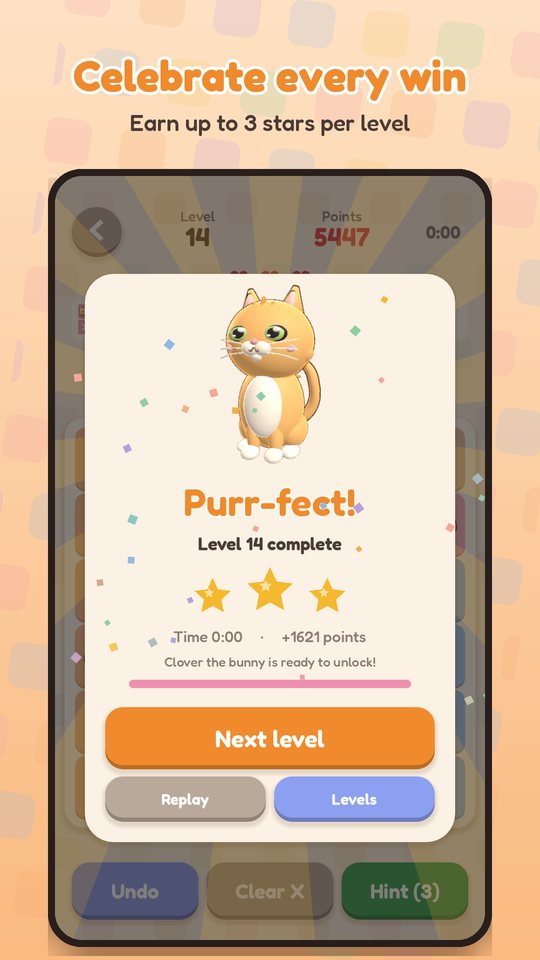
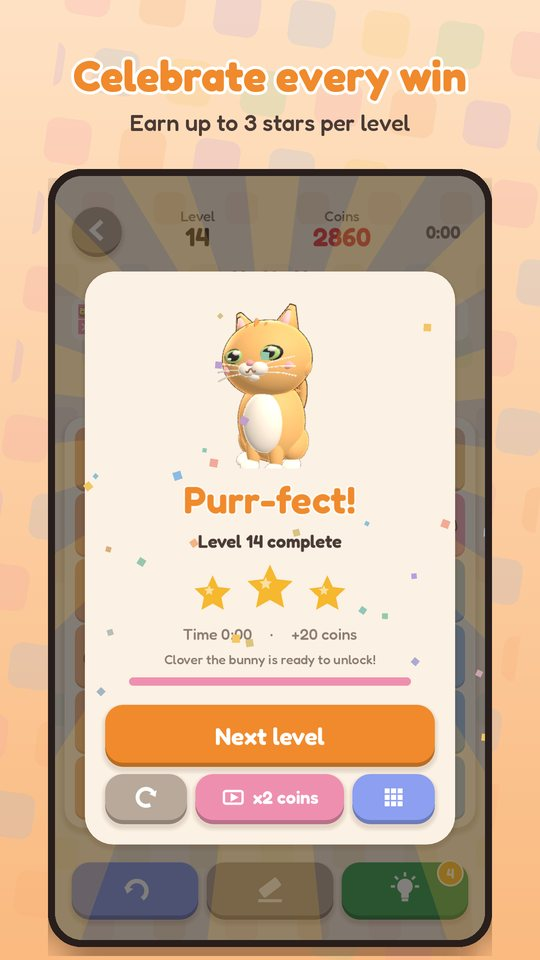
Website: fix stretched screenshots, refresh them with the current UI
- Screenshots keep their 9:16 shape (height: auto + aspect-ratio)
- Desktop shows all six in one row without a scrollbar; phones get a
  swipeable strip with a slim themed scrollbar
- Re-captured store/website screenshots showing coins and icon buttons
- No "daily gift" popup in store screenshots

diff --git a/docs/assets/style.css b/docs/assets/style.css
@@ -105,9 +105,24 @@ section { padding: 72px 0; }
 }
 
 /* ---------- screenshots */
-.shots { display: flex; gap: 22px; overflow-x: auto; scroll-snap-type: x mandatory; padding: 10px 16px 26px; margin: 0 -16px; scrollbar-width: thin; }
-.shots img { flex: none; width: 250px; border-radius: 26px; scroll-snap-align: center; box-shadow: var(--shadow); }
-@media (min-width: 1100px) { .shots { justify-content: center; } .shots img { width: 170px; } }
+/* phones/tablets: swipeable strip; desktop: all six in one tidy row */
+.shots {
+  display: flex; gap: 18px; overflow-x: auto; scroll-snap-type: x mandatory;
+  padding: 10px 16px 22px; margin: 0 -16px;
+  scrollbar-width: thin; scrollbar-color: color-mix(in srgb, var(--accent) 55%, transparent) transparent;
+}
+.shots::-webkit-scrollbar { height: 8px; }
+.shots::-webkit-scrollbar-track { background: transparent; }
+.shots::-webkit-scrollbar-thumb { background: color-mix(in srgb, var(--accent) 55%, transparent); border-radius: 8px; }
+.shots img {
+  flex: none; width: 230px; height: auto; aspect-ratio: 9 / 16; object-fit: cover;
+  border-radius: 22px; scroll-snap-align: center; box-shadow: var(--shadow);
+}
+@media (min-width: 1000px) {
+  .shots { display: grid; grid-template-columns: repeat(6, 1fr); gap: 16px; overflow: visible; margin: 0; padding: 10px 0 0; }
+  .shots img { width: 100%; transition: transform .2s ease; }
+  .shots img:hover { transform: translateY(-6px) scale(1.03); }
+}
 
 /* ---------- cards */
 .grid { display: grid; grid-template-columns: repeat(auto-fit, minmax(240px, 1fr)); gap: 20px; }
